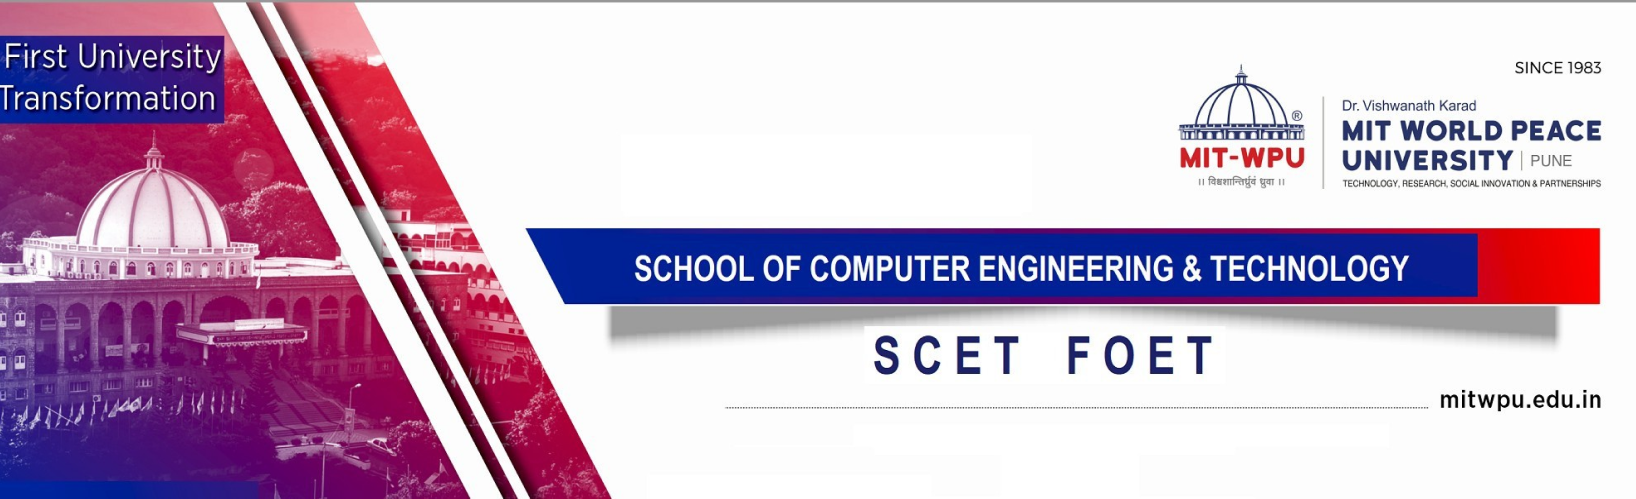
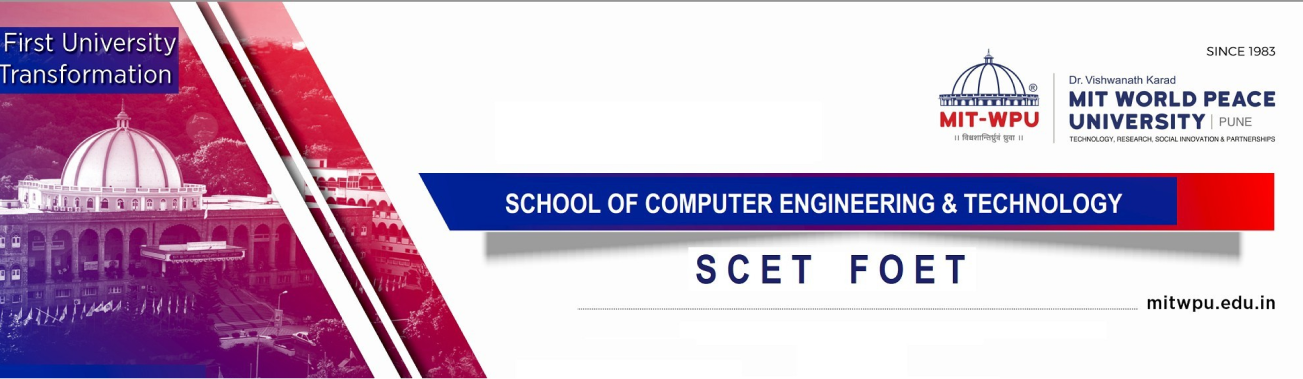
frontend changes

diff --git a/src/Pages/LandingPage.js b/src/Pages/LandingPage.js
@@ -10,6 +10,10 @@ import BarChart from "../components/views/Chart/BarChart";
 import LineChart from "../components/views/Chart/LineChart";
 import AwardsLanding from "../components/views/Card/AwardsLanding";
 import ResearchLanding from "../components/views/Card/ResearchLanding";
+import Achieve2 from "../Assets/Achieve2.jpg";
+import Achieve1 from "../Assets/Achieve1.jpg";
+import Achieve3 from "../Assets/Achieve3.jpg";
+import Achieve4 from "../Assets/Achieve4.jpg";
 import axios from "axios";
 
 const LandingPage = () => {
@@ -52,21 +56,11 @@ const LandingPage = () => {
               className="para"
               style={{
                 width: "50rem",
+                fontSize: "0.9rem",
               }}
             >
               <p>
-                Lorem ipsum dolor sit amet, consectetur adipiscing elit. Nulla
-                odio arcu, sollicitudin at risus semper, consequat ultrices
-                felis. Morbi tellus turpis, euismod quis maximus vehicula,
-                lacinia ac nisl. Maecenas dignissim eros lorem, nec bibendum
-                erat faucibus et. Praesent vitae facilisis sem. Aenean elit
-                felis, varius nec auctor at, tristique ultrices neque. Morbi
-                felis dui, venenatis sit amet quam a, molestie ultrices nisi.
-                Vivamus dignissim imperdiet tempus. Suspendisse potenti. Morbi
-                efficitur nulla ipsum, ac mattis leo sagittis id. Aliquam erat
-                volutpat. Quisque vitae tempor quam. Proin a ligula vel purus
-                pharetra commodo quis eget leo. Nullam placerat vitae erat quis
-                viverra.
+              The UG Programs offered by School of Computer Engineering and Technology are 4 years full time programs. The course curriculum includes cutting-edge technologies like Artificial Intelligence, Machine Learning, Data Analytics, Cloud Computing, IoT, etc and Peace courses taught by experienced and eminent faculties. MIT-WPU consistently tops in ranking of engineering colleges and is widely recognized in India and abroad for its excellence in education. The salient features include fully equipped laboratories and Center of Excellence established by MNC like IBM, AMDOCS, NVIDIA, IEEE Pune section (Affordable Agriculture Technology Laboratory). The academic and research partners include NVIDIA, Federation University (Australia).
               </p>
             </div>
           </div>
@@ -82,33 +76,25 @@ const LandingPage = () => {
             />
           </div>
           <div>
-            <div className="para">
+            <div className="para" style={{
+              marginTop: "5rem",
+            }}>
               <h1
                 className="head"
                 style={{
                   marginLeft: "1.5rem",
                 }}
               >
-                Dr. Vrushali Kulkarni Head of School and Professor
+                Dr. Vrushali Kulkarni (Head of School and Professor)
               </h1>
               <p
                 style={{
-                  width: "50rem",
+                  width: "53rem",
                   paddingRight: "30px",
+                  fontSize: "0.9rem",
                 }}
               >
-                Lorem ipsum dolor sit amet, consectetur adipiscing elit. Nulla
-                odio arcu, sollicitudin at risus semper, consequat ultrices
-                felis. Morbi tellus turpis, euismod quis maximus vehicula,
-                lacinia ac nisl. Maecenas dignissim eros lorem, nec bibendum
-                erat faucibus et. Praesent vitae facilisis sem. Aenean elit
-                felis, varius nec auctor at, tristique ultrices neque. Morbi
-                felis dui, venenatis sit amet quam a, molestie ultrices nisi.
-                Vivamus dignissim imperdiet tempus. Suspendisse potenti. Morbi
-                efficitur nulla ipsum, ac mattis leo sagittis id. Aliquam erat
-                volutpat. Quisque vitae tempor quam. Proin a ligula vel purus
-                pharetra commodo quis eget leo. Nullam placerat vitae erat quis
-                viverra.
+                Dr. Vrushali Kulkarni possesses Ph.D. in “Machine Learning” from College of Engineering, Pune. Prior to that, she has done ME(Computer Engg) from College of Engg, Pune, and BE(CSE) from Walchand College of Engg, Sangli. She has over 25 years of teaching experience. She has a specialization in teaching Data Structures, Algorithms, Compilers, Data Mining, and Business Intelligence. She has been in administration for the last 10 years, the Department has achieved NBA twice during her tenure. At the research front, she has received research funding from BCUD, RCFC, MIT, Pune. Recently she has received funding from IBM for a project based on the theme of “Humanoid Robots”.She has received an “Ideal Teacher” award from MIT, Pune, “Best Faculty” award from Cognizant and “Star Achiever” award from Accenture.
               </p>
             </div>
           </div>
@@ -118,19 +104,19 @@ const LandingPage = () => {
         <div className="awards">
           <div className="one">
             <div style={{ padding: "5rem 0rem" }}>
-              <AwardsLanding />
+              <AwardsLanding image = {Achieve1} desc = "The three students of our Engineering department have been selected by Amazon with a CTC of 44.14 Lakh* + 2.5 Lakh worth of employee benefits." />
             </div>
             <div>
-              <AwardsLanding />
+              <AwardsLanding image = {Achieve2} desc = "MIT-WPU School of Computer Engineering and Technology is glad to announce that our students are placed in BMC Software with the CTC of 12.5 LPA. Congratulations to the students !" />
             </div>
           </div>
 
           <div className="three">
             <div style={{ padding: "5rem 0rem" }}>
-              <AwardsLanding />
+              <AwardsLanding image = {Achieve3} desc = "Mr. Tanmay Unhale, Final Year BTech (CSE) student on receiving Best Paper award for his paper titled, Novel Approach For Feature Selection Using Genetic Algorithm,under the guidance of Prof. Shilpa Sonawani." />
             </div>
             <div>
-              <AwardsLanding />
+              <AwardsLanding image = {Achieve4} />
             </div>
           </div>
         </div>
@@ -163,7 +149,7 @@ const LandingPage = () => {
             <LineChart data={bc} title="Book Citations" />
           </div>
           <div style={{ paddingRight: "3rem" }}>
-            <LineChart data={cc} title="Conference Citations" />
+            <LineChart data={cc} title="Conf. Citations" />
           </div>
         </div>
       </div>

diff --git a/src/components/views/Footer.js b/src/components/views/Footer.js
@@ -2,6 +2,7 @@ import React from "react";
 import Container from "@mui/material/Container";
 import Grid from "@mui/material/Grid";
 import Box from "@mui/material/Box";
+import { Image } from "@mui/icons-material";
 import Link from "@mui/material/Link";
 
 import TwitterIcon from "@mui/icons-material/Twitter";
@@ -9,6 +10,7 @@ import YouTubeIcon from "@mui/icons-material/YouTube";
 import FacebookIcon from "@mui/icons-material/Facebook";
 import InstagramIcon from "@mui/icons-material/Instagram";
 import LinkedInIcon from "@mui/icons-material/LinkedIn";
+import logo2 from "../../Assets/logo2.png";
 
 const Footer = () => {
   return (
@@ -20,6 +22,7 @@ const Footer = () => {
         color="white"
       >
         <Container maxWidth="xl" style={{ paddingLeft: "20rem" }}>
+
           <Grid container spacing={5} columns={25}>
             <Grid item xs={5} sm={4}>
               <Box style={{ fontWeight: "bold", paddingBottom: "2rem" }}>
@@ -189,6 +192,7 @@ const Footer = () => {
               <Box>
                 <Link
                   href="https://www.instagram.com/mitwpu_scet/"
+                  target="_blank"
                   color="inherit"
                   style={{
                     textDecoration: "none",
@@ -200,6 +204,7 @@ const Footer = () => {
               <Box>
                 <Link
                   href="https://www.facebook.com/MITWPUOfficial"
+                  target="_blank"
                   color="inherit"
                   style={{
                     textDecoration: "none",
@@ -211,6 +216,7 @@ const Footer = () => {
               <Box>
                 <Link
                   href="https://www.linkedin.com/company/mitwpu-scet/"
+                  target="_blank"
                   color="inherit"
                   style={{
                     textDecoration: "none",

diff --git a/src/components/views/Research Inovation/ResearchInno.js b/src/components/views/Research Inovation/ResearchInno.js
@@ -107,7 +107,8 @@ export default function ResearchInno() {
         <h1
           style={{
             textAlign: "center",
-            fontFamily: "Poppins"
+            fontFamily: "Poppins",
+            fontSize: "1.5rem",
           }}
         >
           Research & Innovation
@@ -123,19 +124,19 @@ export default function ResearchInno() {
         }}
       >
         <TabsList>
-          <Tab
+          {/* <Tab
             style={{
               border: "1px solid black",
             }}
           >
             Research
-          </Tab>
+          </Tab> */}
           <Tab
             style={{
               border: "1px solid black",
             }}
           >
-            Publication
+            Research & Publication
           </Tab>
           <Tab
             style={{
@@ -152,16 +153,16 @@ export default function ResearchInno() {
             Patents
           </Tab>
         </TabsList>
-        <TabPanel value={0}>
+        {/* <TabPanel value={0}>
             <Research />
-        </TabPanel>
-        <TabPanel value={1}>
+        </TabPanel> */}
+        <TabPanel value={0}>
           <Publication />
         </TabPanel>
-        <TabPanel value={2}>
+        <TabPanel value={1}>
           <Grant />
         </TabPanel>
-        <TabPanel value={3}>
+        <TabPanel value={2}>
           <Patent />
         </TabPanel>
       </TabsUnstyled>

diff --git a/src/components/views/CarouselBar.js b/src/components/views/CarouselBar.js
@@ -52,7 +52,7 @@ import React, {
   Component
 } from "react";
 import Slider from "react-slick";
-import Carousel1 from '../../Assets/banner1.png'
+import Carousel1 from '../../Assets/banner1.png';
 import Carousel2 from '../../Assets/Carousel2.png'
 import Carousel3 from '../../Assets/Carousel3.png'
 
@@ -90,7 +90,7 @@ export default class CarouselBar extends Component {
       alt = 'Carousel1'
       style = {
         {
-          width: '102.25rem',
+          width: "85rem",
           padding: '10px',
           border: 'none'
           //backgroundSize: 'contain',
@@ -102,24 +102,24 @@ export default class CarouselBar extends Component {
       img src = {
         Carousel2
       }
-      alt = 'Carousel1'
+      alt = 'Carousel2'
       style = {
         {
-          width: '102.25rem',
+          width: '85rem',
           border: 'none'
         }
       }
       /> 
-      </div> <
-      div > {
+      </div> 
+      <div > {
         /* <h3>3</h3> */ } <
       img src = {
         Carousel3
       }
-      alt = 'Carousel1'
+      alt = 'Carousel3'
       style = {
         {
-          width: '102.25rem',
+          width: '85rem',
           border: 'none'
         }
       }

diff --git a/src/components/views/Card/AwardsLanding.jsx b/src/components/views/Card/AwardsLanding.jsx
@@ -6,22 +6,21 @@ import Typography from '@mui/material/Typography';
 import { CardActionArea } from '@mui/material';
 import logo3 from '../../../Assets/logo3.jpg';
 
-export default function AwardsLanding() {
+export default function AwardsLanding(props) {
   return (
     <>
          <Card sx={{ maxWidth: 445, border: '0.5 solid black' }}>
       <CardActionArea>
         <CardMedia
           component="img"
-          height="240"
-          width="40"
-          image= {'https://media-exp1.licdn.com/dms/image/C4D22AQGsj4hnoncnzg/feedshare-shrink_800/0/1658406785905?e=1665014400&v=beta&t=Nike3e_KTCLCLonwfhu0C0qXCxxAyrW8HsOyuZU6AcM'}
+          height="350px"
+          width="50px"
+          image= {props.image}
           alt="green iguana"
         />
         <CardContent>
           <Typography variant="body2" color="text.secondary">
-              The three students of our Engineering department have been selected by Amazon with a CTC of 44.14 Lakh* + 2.5 Lakh worth of employee benefits.
-              We couldn't have been prouder!
+              {props.desc}
           </Typography>
         </CardContent>
       </CardActionArea>

diff --git a/src/components/views/Card/Patent.js b/src/components/views/Card/Patent.js
@@ -19,6 +19,7 @@ const Patent = () => {
             borderRadius: "10px",
             marginLeft: "45vw",
             marginBottom: "10px",
+            maerginTop: "20px",
           }}
         >
           <Link to="/form" style={{ textDecoration: "none", color: "white" }}>
@@ -28,11 +29,11 @@ const Patent = () => {
         <div
           style={{
             padding: "1vw",
-            width: "55vw",
+            width: "100%",
             height: "30vw",
-            marginTop: "2vw",
-            marginLeft: "15vw",
-            marginBottom: "15vw",
+           // marginTop: "2vw",
+            marginLeft: "10vw",
+            marginBottom: "20vw",
           }}
         >
           <BarChart

diff --git a/src/components/views/Card/Grant.js b/src/components/views/Card/Grant.js
@@ -31,11 +31,11 @@ const Grant = () => {
         <div
           style={{
             padding: "1vw",
-            width: "55vw",
+            width: "100%",
             height: "30vw",
             marginTop: "2vw",
-            marginLeft: "15vw",
-            marginBottom: "15vw",
+            marginLeft: "10vw",
+            marginBottom: "20vw",
           }}
         >
           <BarChart

diff --git a/src/components/views/Card/Publication.js b/src/components/views/Card/Publication.js
@@ -34,7 +34,7 @@ const Publication = () => {
             width: "55vw",
             height: "33vw",
             marginTop: "2vw",
-            marginLeft: "15vw",
+            marginLeft: "22vw",
           }}
         >
           <GroupedBarChart data1={data1} data2={data2} />

diff --git a/src/components/views/Student Section/StudentSection.jsx b/src/components/views/Student Section/StudentSection.jsx
@@ -103,7 +103,8 @@ export default function StudentSection(props) {
         <h1
           style={{
             textAlign: 'center',
-            
+            fontFamily: 'Poppins, sans-serif',
+            fontSize: '1.5rem',
           }}
         >
           Student Corner

diff --git a/src/components/views/Chart/LineChart.js b/src/components/views/Chart/LineChart.js
@@ -37,6 +37,7 @@ function LineChart(props)
           style={{
             paddingTop: '2rem',
             marginTop: '2rem',
+            marginLeft: '-2rem',
           }}
           >
           </Chart>
